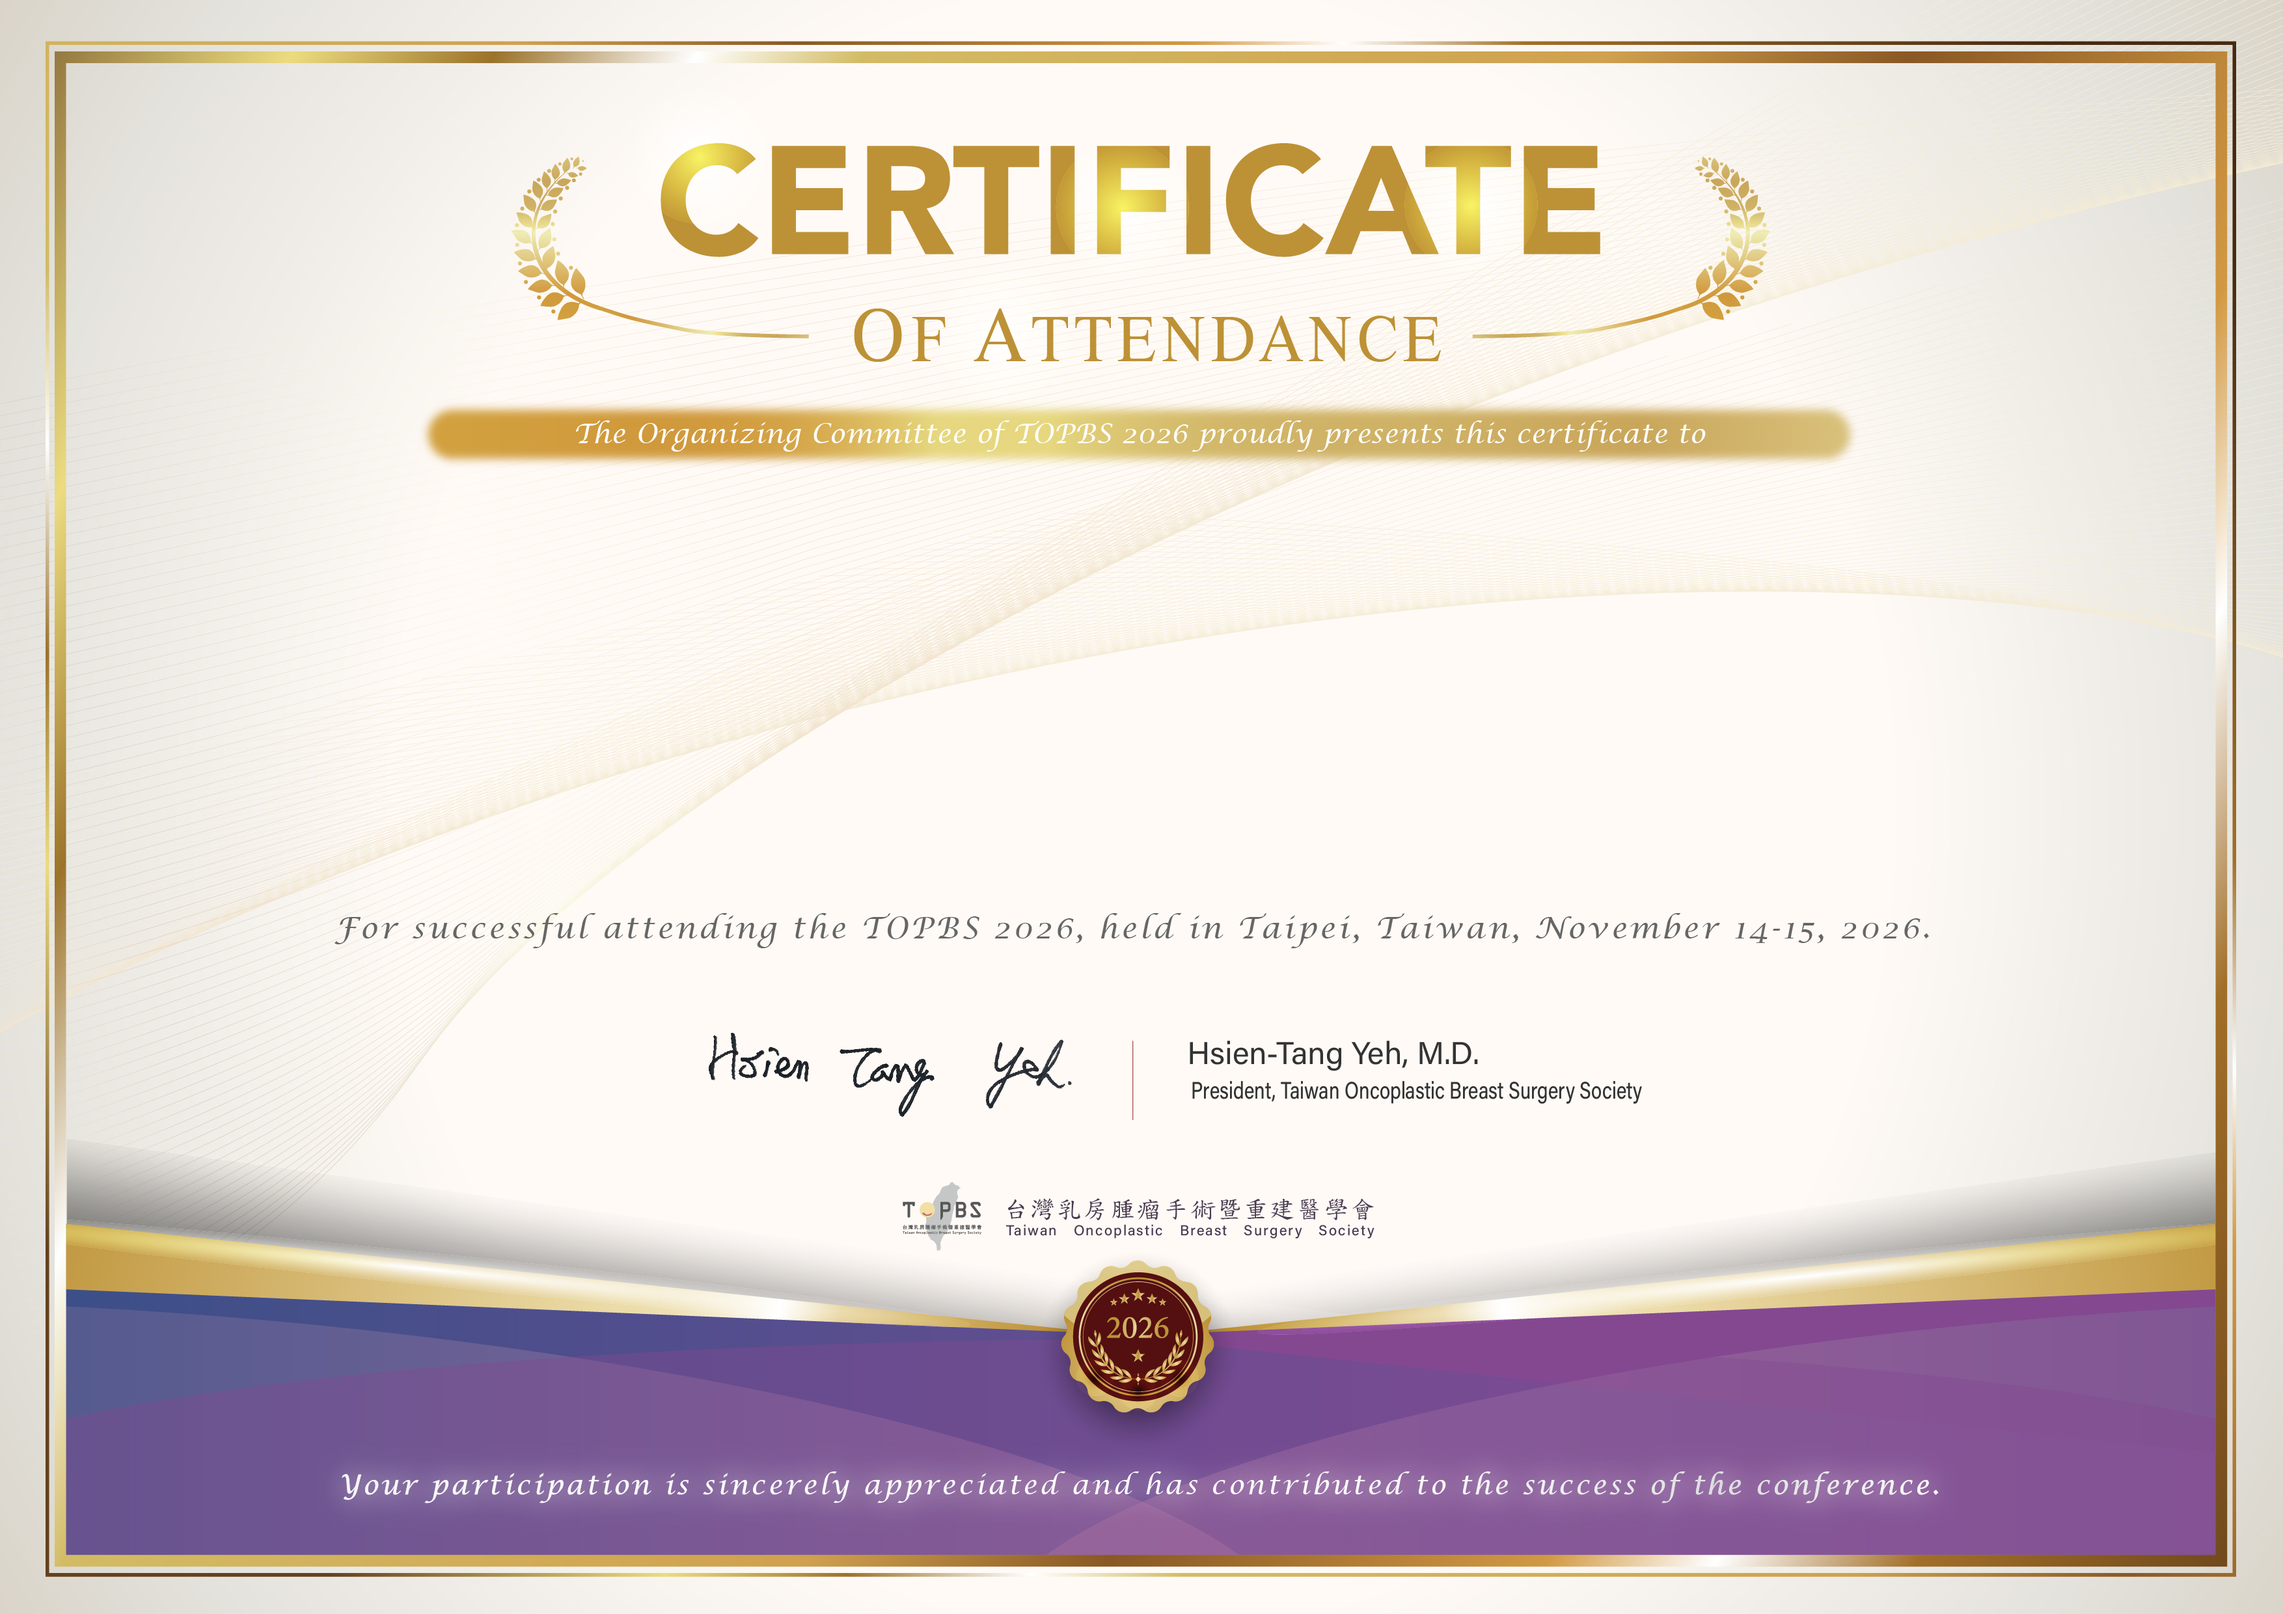
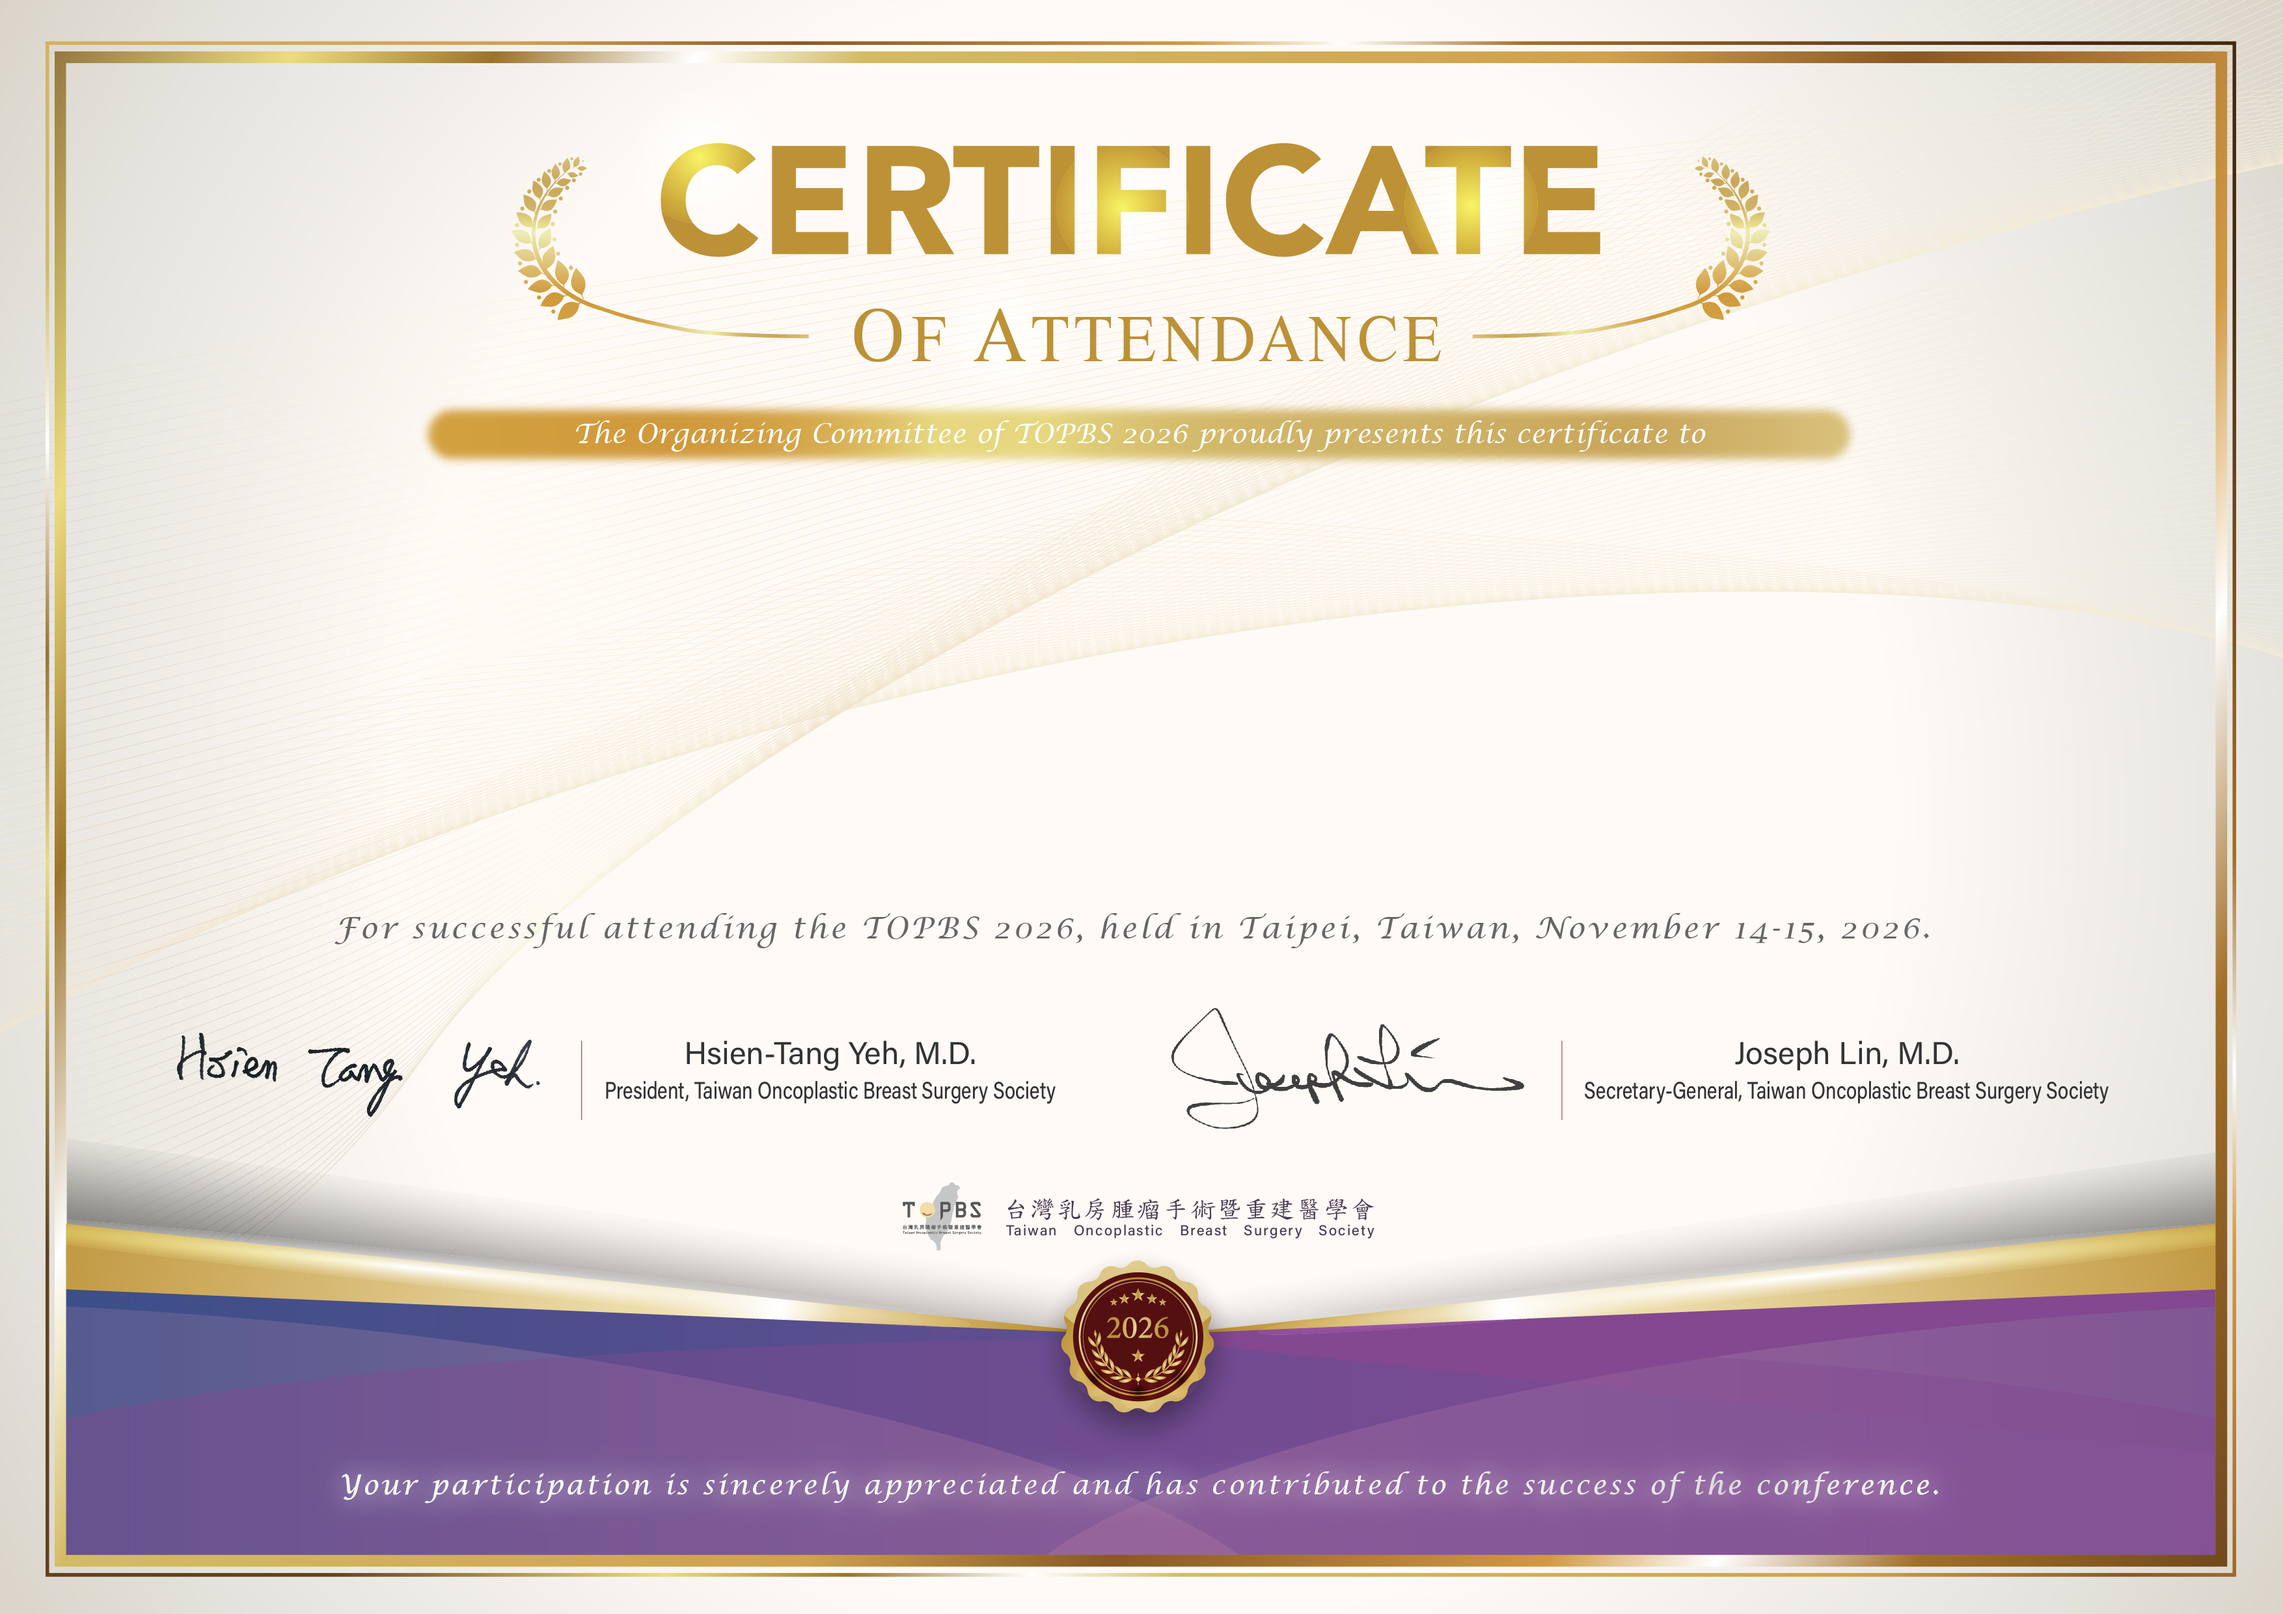
update
1.更新pojo field
2.更新證書底板

Changed region(s): [[0.5282, 0.621, 0.9011, 0.6831], [0.2796, 0.652, 0.4661, 0.6831], [0.0932, 0.652, 0.2486, 0.6831]]

diff --git a/topbs2026-admin/src/main/java/tw/org/topbs/pojo/VO/AttendeesTagVO.java b/topbs2026-admin/src/main/java/tw/org/topbs/pojo/VO/AttendeesTagVO.java
@@ -20,6 +20,9 @@ public class AttendeesTagVO {
 	@Schema(description = "參與者流水序號")
 	private Integer sequenceNo;
 
+	@Schema(description = "收據編號,客戶需要再透過excel模板批量匯入")
+	private String receiptNo;
+
 	@Schema(description = "會員資訊")
 	private Member member;
 
